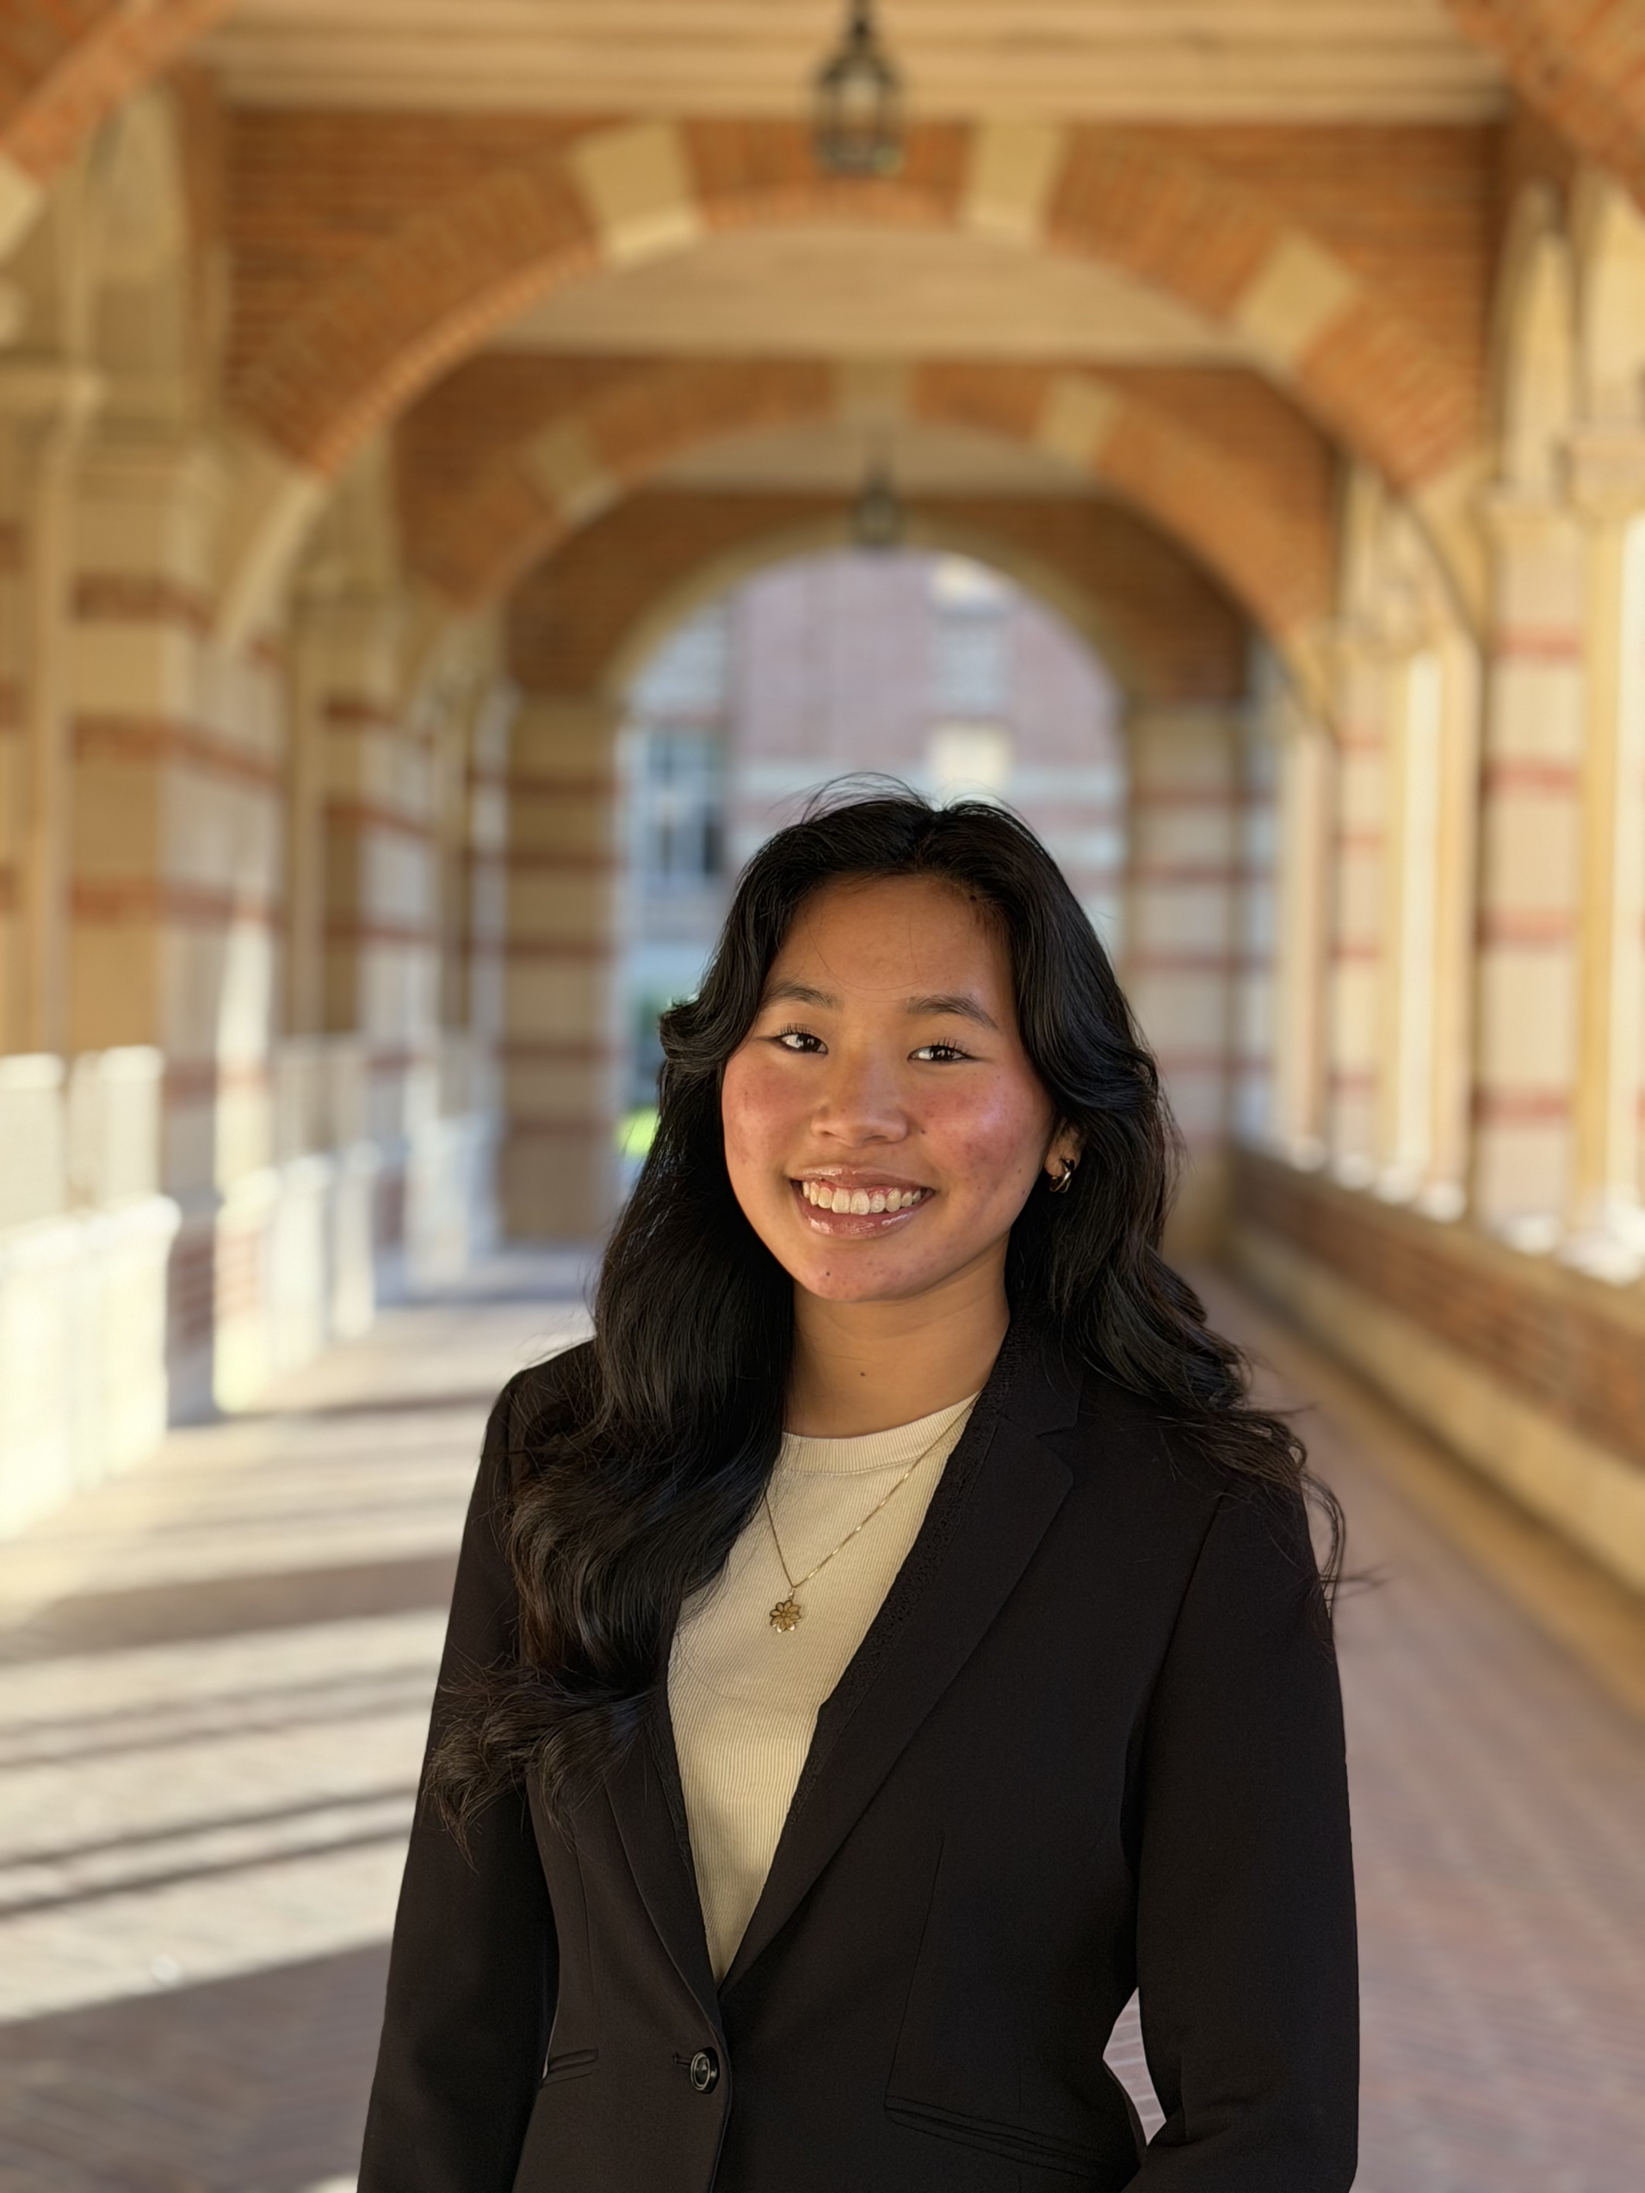
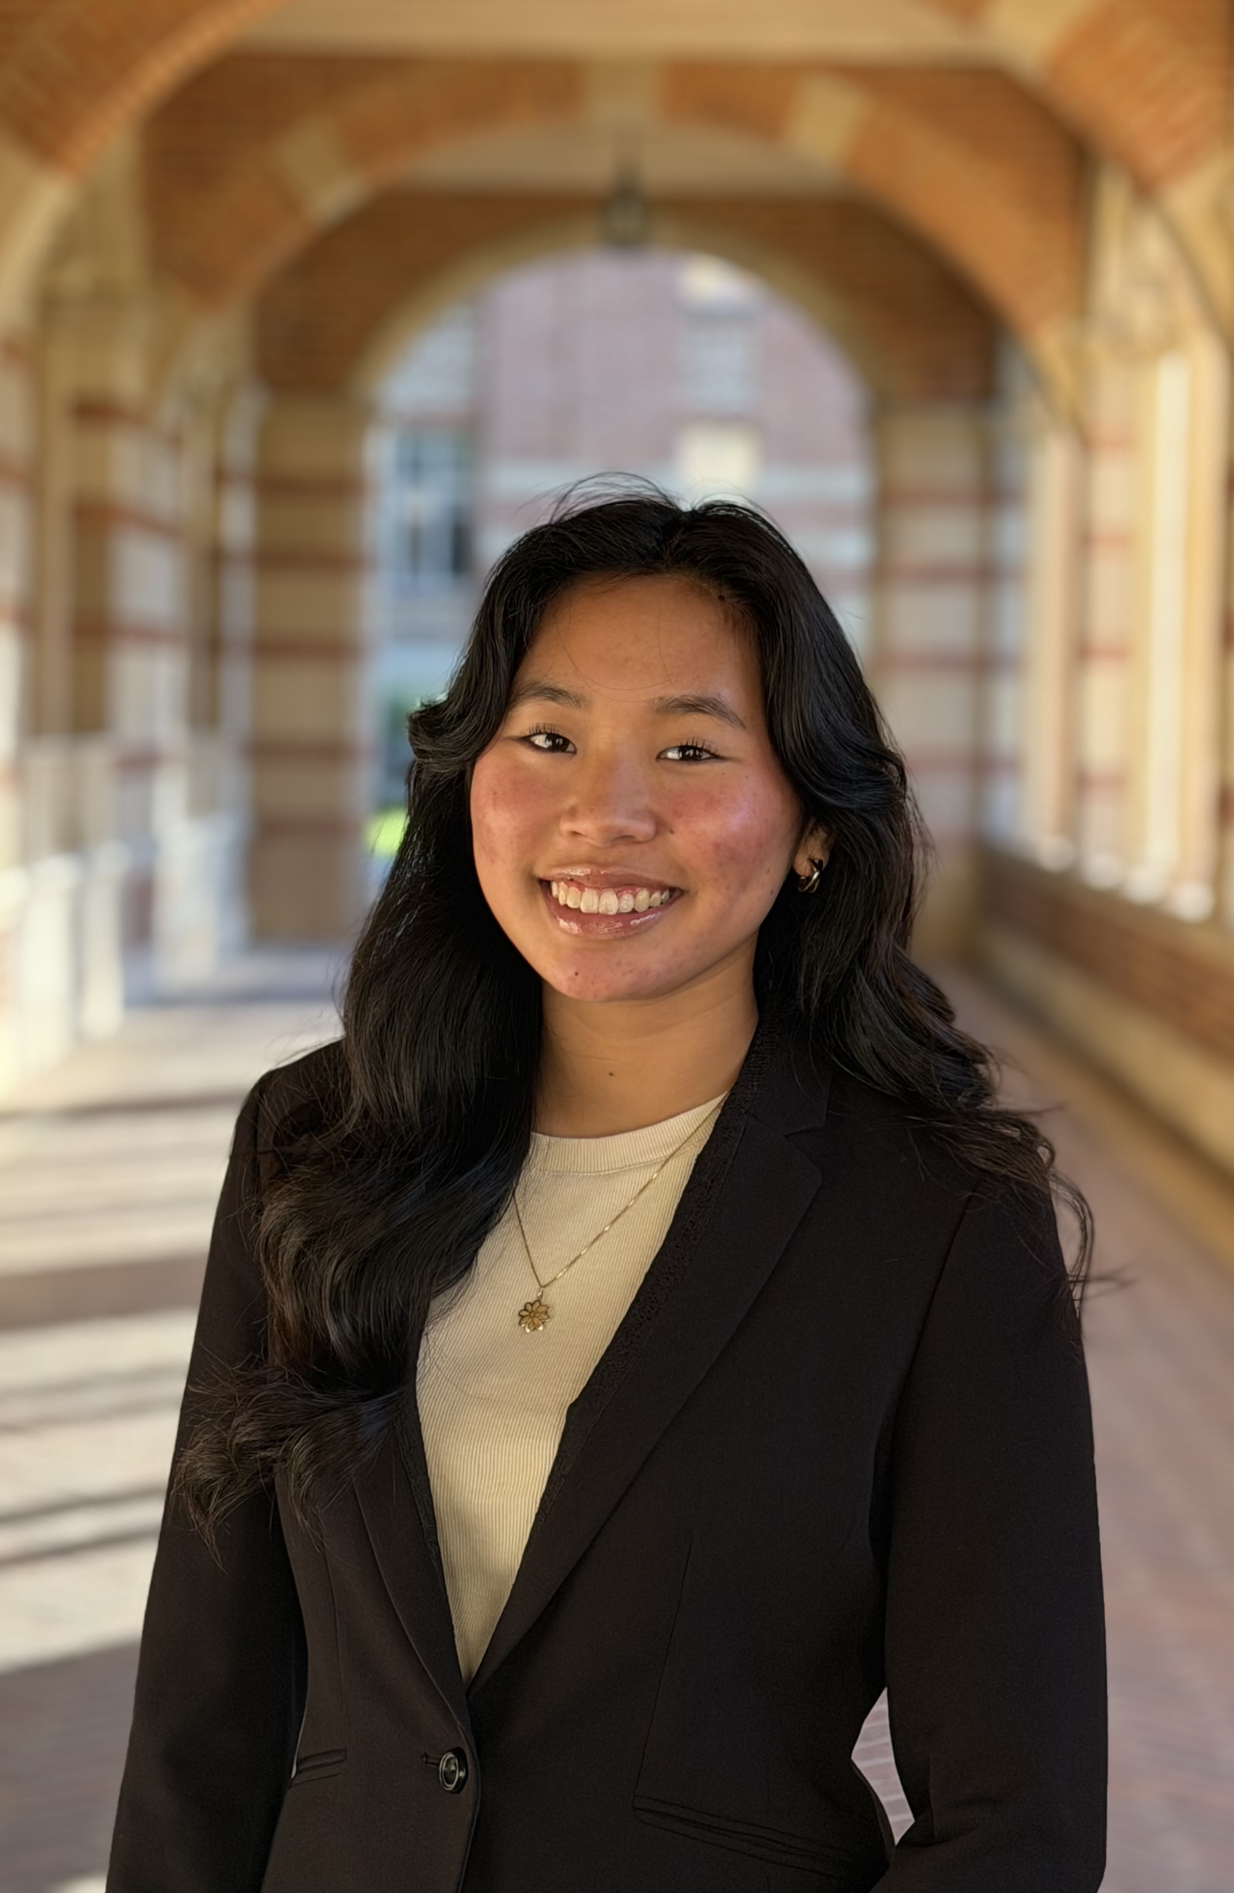
update fonts, styling, headshots, add time info

diff --git a/src/components/committeeGrid/committeeGrid.jsx b/src/components/committeeGrid/committeeGrid.jsx
@@ -5,7 +5,7 @@ import JEIA from "../../assets/JeiaSoHeadshot.jpg";
 import LILLIAN from "../../assets/LillianGonickHeadshot.JPG";
 import GEORGIA from "../../assets/GeorgiaCraneHeadshot.jpg";
 import CAROL from "../../assets/CarolHiwatigHeadshot.jpg";
-import PRIYANKA from "../../assets/placeholder.png";
+import PRIYANKA from "../../assets/PriyankaSanthoshHeadshot.jpg";
 import FIA from "../../assets/FiaNicolaescuHeadshot.png";
 import FIONA from "../../assets/FionaSzetoHeadshot.jpeg";
 
@@ -15,10 +15,10 @@ const teamData = [
     image: JEIA,
     name: "Jeia So",
     position: "External Director",
-    year: "4th Year",
+    year: "3rd Year",
     major: "Mechanical Engineering",
     description:
-      "Jeia is a fourth year student at UCLA studying Mechanical Engineering and currently serves as the External Director for SWE@UCLA's Evening with Industry Committee. She has been involved with undergraduate research as part of the Mechanics of Soft Materials Lab, and an instructor for the drones E1 class on campus. She hopes to pursue a career in robotics or bionics. In her free time, she enjoys drawing, dancing, and looking for new food spots.",
+      "Jeia is a third year student at UCLA studying Mechanical Engineering and currently serves as the External Director for SWE@UCLA's Evening with Industry Committee. She has been involved with undergraduate research as part of the Mechanics of Soft Materials Lab, and an instructor for the drones E1 class on campus. She hopes to pursue a career in robotics or bionics. In her free time, she enjoys drawing, dancing, and looking for new food spots.",
     linkedInURL: "https://www.linkedin.com/in/jeiaso/",
   },
   {

diff --git a/src/components/peopleCard/peopleCard.css b/src/components/peopleCard/peopleCard.css
@@ -66,15 +66,17 @@
 }
 
 .people-card__name {
-  font-size: 0.95rem;
-  font-weight: 600;
-  margin: 0 0 0.15rem 0;
+  font-family: "Dongle", sans-serif;
+  font-size: 2rem;
+  font-weight: 400;
+  margin: 0 0 -10px 0;
   color: #ffffff;
   line-height: 1.2;
 }
 
 .people-card__position {
-  font-size: 0.8rem;
+  font-family: "Dongle", sans-serif;
+  font-size: 1.25rem;
   font-weight: 400;
   margin: 0;
   color: rgba(255, 255, 255, 0.85);
@@ -192,7 +194,8 @@
 }
 
 .people-card__popup-label {
-  font-size: 0.75rem;
+  font-family: "Dongle", sans-serif;
+  font-size: 1.4rem;
   font-weight: 500;
   color: var(--people-card-text-muted);
   text-transform: lowercase;
@@ -200,10 +203,11 @@
 }
 
 .people-card__popup-value {
-  font-size: 0.95rem;
+  font-family: "Dongle", sans-serif;
+  font-size: 1.4rem;
   font-weight: 400;
   color: var(--people-card-text);
-  line-height: 1.2;
+  line-height: 1;
 }
 
 .people-card__linkedin {
@@ -227,7 +231,8 @@
 }
 
 .people-card__popup-about-title {
-  font-size: 0.75rem;
+  font-family: "Dongle", sans-serif;
+  font-size: 1.4rem;
   font-weight: 500;
   color: var(--people-card-text-muted);
   text-transform: lowercase;
@@ -237,10 +242,11 @@
 }
 
 .people-card__popup-about-text {
-  font-size: 0.9rem;
+  font-family: "Dongle", sans-serif;
+  font-size: 1.4rem;
   font-weight: 400;
   color: var(--people-card-text);
-  line-height: 1.6;
+  line-height: 1;
   margin: 0;
 }
 

diff --git a/src/components/home/HomeWhatIsEwi.jsx b/src/components/home/HomeWhatIsEwi.jsx
@@ -9,27 +9,30 @@ import "./HomeWhatIsEwi.css";
 const blurbs = [
   {
     id: 1,
-    title: "networking",
+    title: "Networking",
     image: networkingPhoto,
     imageAlt: "Students networking together at EWI",
     blurb:
       "Connect with companies through informal networking and a traditional career fair portion of the evening.",
+    time: "5:30 PM - 6:45 PM",
   },
   {
     id: 2,
-    title: "dinner conversations",
+    title: "Dinner Conversations",
     image: dinnerPhoto,
     imageAlt: "Students seated with recruiters at the EWI dinner",
     blurb:
       "Six to eight students sit with company representatives for unscripted dinner conversations, not just a typical resume drop",
+    time: "6:45 PM - 8:30 PM",
   },
   {
     id: 3,
-    title: "career fair",
+    title: "Career Fair",
     image: careerFairPhoto,
     imageAlt: "Students with company representatives at the EWI career fair",
     blurb:
       "Attending companies table in a formal career fair to allow students to talk to all representatives and explore different opportunities.",
+    time: "8:30 PM - 10:00 PM",
   },
 ];
 
@@ -44,6 +47,7 @@ const HomeWhatIsEwi = () => {
             image={item.image}
             imageAlt={item.imageAlt}
             blurb={item.blurb}
+            time={item.time}
           />
         ))}
       </div>

diff --git a/src/components/home/HomeFeatureBlurb.css b/src/components/home/HomeFeatureBlurb.css
@@ -14,8 +14,9 @@
   min-height: 100%;
   padding: 1.35rem 1.15rem 1.25rem;
   border-radius: 25px;
-  background: linear-gradient(180deg, #e3c4fb 28%, #f9f6f0 100%);
-  box-shadow: 0 4px 5px 1px #2b2133;
+  /* background: linear-gradient(180deg, #e3c4fb 28%, #f9f6f0 100%); */
+  background: #F4DCD0;
+  box-shadow: 0 4px 5px 1px rgba(0, 0, 0, 0.22);
 }
 
 .home-feature-blurb__image {
@@ -48,13 +49,13 @@
 .home-feature-blurb__title {
   margin: 0;
   color: #2b2133;
-  font-family: "Abhaya Libre Extra", serif;
-  font-size: clamp(1.6rem, 2.15vw, 2rem);
-  font-weight: 400;
+  font-family: "Dongle", sans-serif;
+  font-size: clamp(2.15rem, 2.15vw, 2rem);
+  font-weight: 600;
   letter-spacing: 0.01em;
   line-height: 0.95;
   text-align: center;
-  text-transform: lowercase;
+  /* text-transform: lowercase; */
 }
 
 .home-feature-blurb__text {
@@ -71,6 +72,26 @@
   text-wrap: wrap;
   text-wrap: pretty;
   text-wrap: balance;
+}
+
+.home-feature-blurb__meta {
+  display: flex;
+  flex-wrap: wrap;
+  gap: 0.35rem 1.5rem;
+  color: #5f4077;
+  font-family: "Dongle", sans-serif;
+  font-size: 1.55rem;
+  line-height: 1;
+}
+
+.home-feature-blurb__meta span {
+  display: inline-flex;
+  align-items: center;
+  gap: 0.3rem;
+}
+
+.home-feature-blurb__meta svg {
+  font-size: 1.15rem;
 }
 
 @media screen and (max-width: 860px) {

diff --git a/src/components/home/HomeFeatureBlurb.jsx b/src/components/home/HomeFeatureBlurb.jsx
@@ -1,7 +1,8 @@
 import React from "react";
+import { HiOutlineClock } from "react-icons/hi";
 import "./HomeFeatureBlurb.css";
 
-const HomeFeatureBlurb = ({ title, image, imageAlt, blurb }) => {
+const HomeFeatureBlurb = ({ title, image, imageAlt, blurb, time }) => {
   return (
     <article className="home-feature-blurb">
       {image ? (
@@ -12,6 +13,12 @@ const HomeFeatureBlurb = ({ title, image, imageAlt, blurb }) => {
       <div className="home-feature-blurb__copy">
         {title ? <h3 className="home-feature-blurb__title">{title}</h3> : null}
         <p className="home-feature-blurb__text">{blurb}</p>
+      </div>
+      <div className="home-feature-blurb__meta">
+        <span>
+          <HiOutlineClock aria-hidden="true" />
+          {time}
+        </span>
       </div>
     </article>
   );

diff --git a/src/components/committeeGrid/committeeGrid.css b/src/components/committeeGrid/committeeGrid.css
@@ -4,7 +4,7 @@
   --committee-grid-header-padding: 2rem 2rem 1rem;
   --committee-grid-content-padding-bottom: 6rem;
   --committee-grid-title-size: 4rem;
-  --committee-grid-subtitle-size: 1.35rem;
+  --committee-grid-subtitle-size: 2.8rem;
   --committee-grid-text: #000000;
   --committee-grid-text-muted: #5F4077;
   --committee-grid-max-width: 54rem;
@@ -63,6 +63,7 @@
 }
 
 .committee-grid__subtitle {
+  font-family: "Abhaya Libre Extra";
   font-size: var(--committee-grid-subtitle-size);
   font-weight: 600;
   color: var(--committee-grid-text-muted);

diff --git a/src/components/home/HomeHero.jsx b/src/components/home/HomeHero.jsx
@@ -23,6 +23,9 @@ const HomeHero = () => {
         </h1>
 
         <div className="home-hero__overlay">
+          <p className="home-hero__tagline">
+            Nov 20, 2026 5:30 PM - 10:00 PM @ Carnesale Commons 
+          </p>
           <nav className="home-hero__actions" aria-label="Audience pages">
             <Link
               to="/companies"

diff --git a/src/components/home/HomeHero.css b/src/components/home/HomeHero.css
@@ -56,6 +56,15 @@
   line-height: normal;
 }
 
+.home-hero__tagline {
+  margin: 0;
+  color: #f9f6f0;
+  font-family: "Dongle", sans-serif;
+  line-height: 1.2;
+  text-align: center;
+  font-size: 2.45rem;
+}
+
 .home-hero__actions {
   display: flex;
   flex-wrap: wrap;
